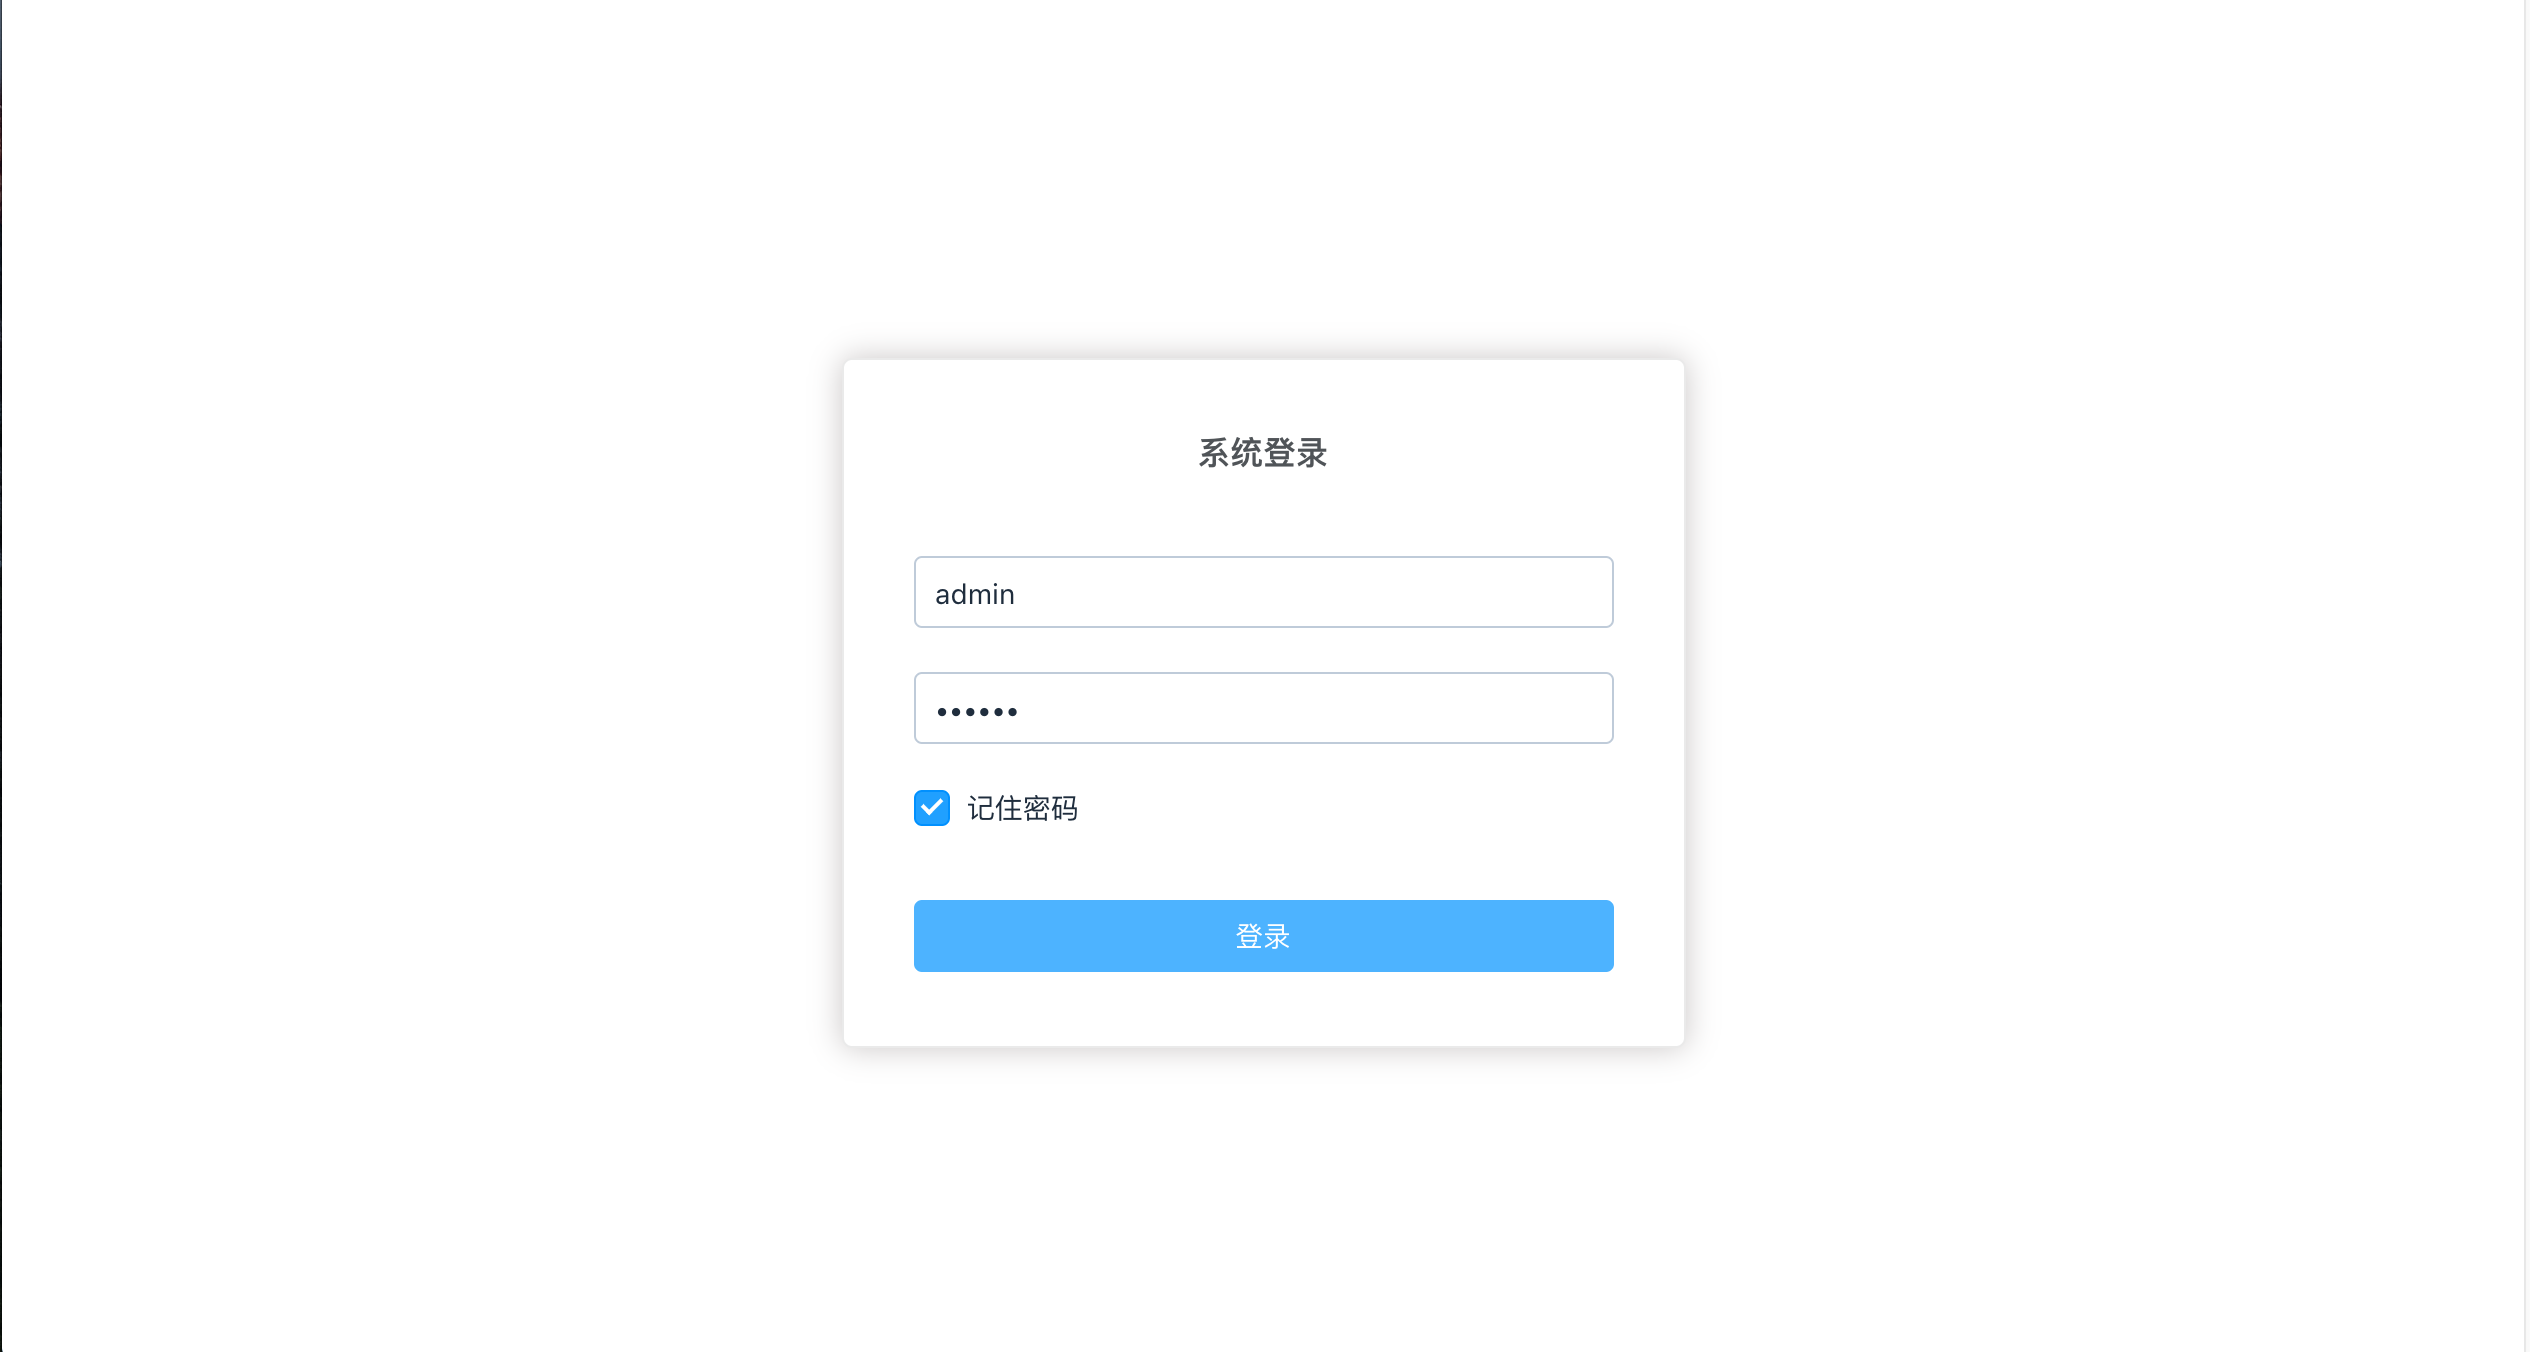
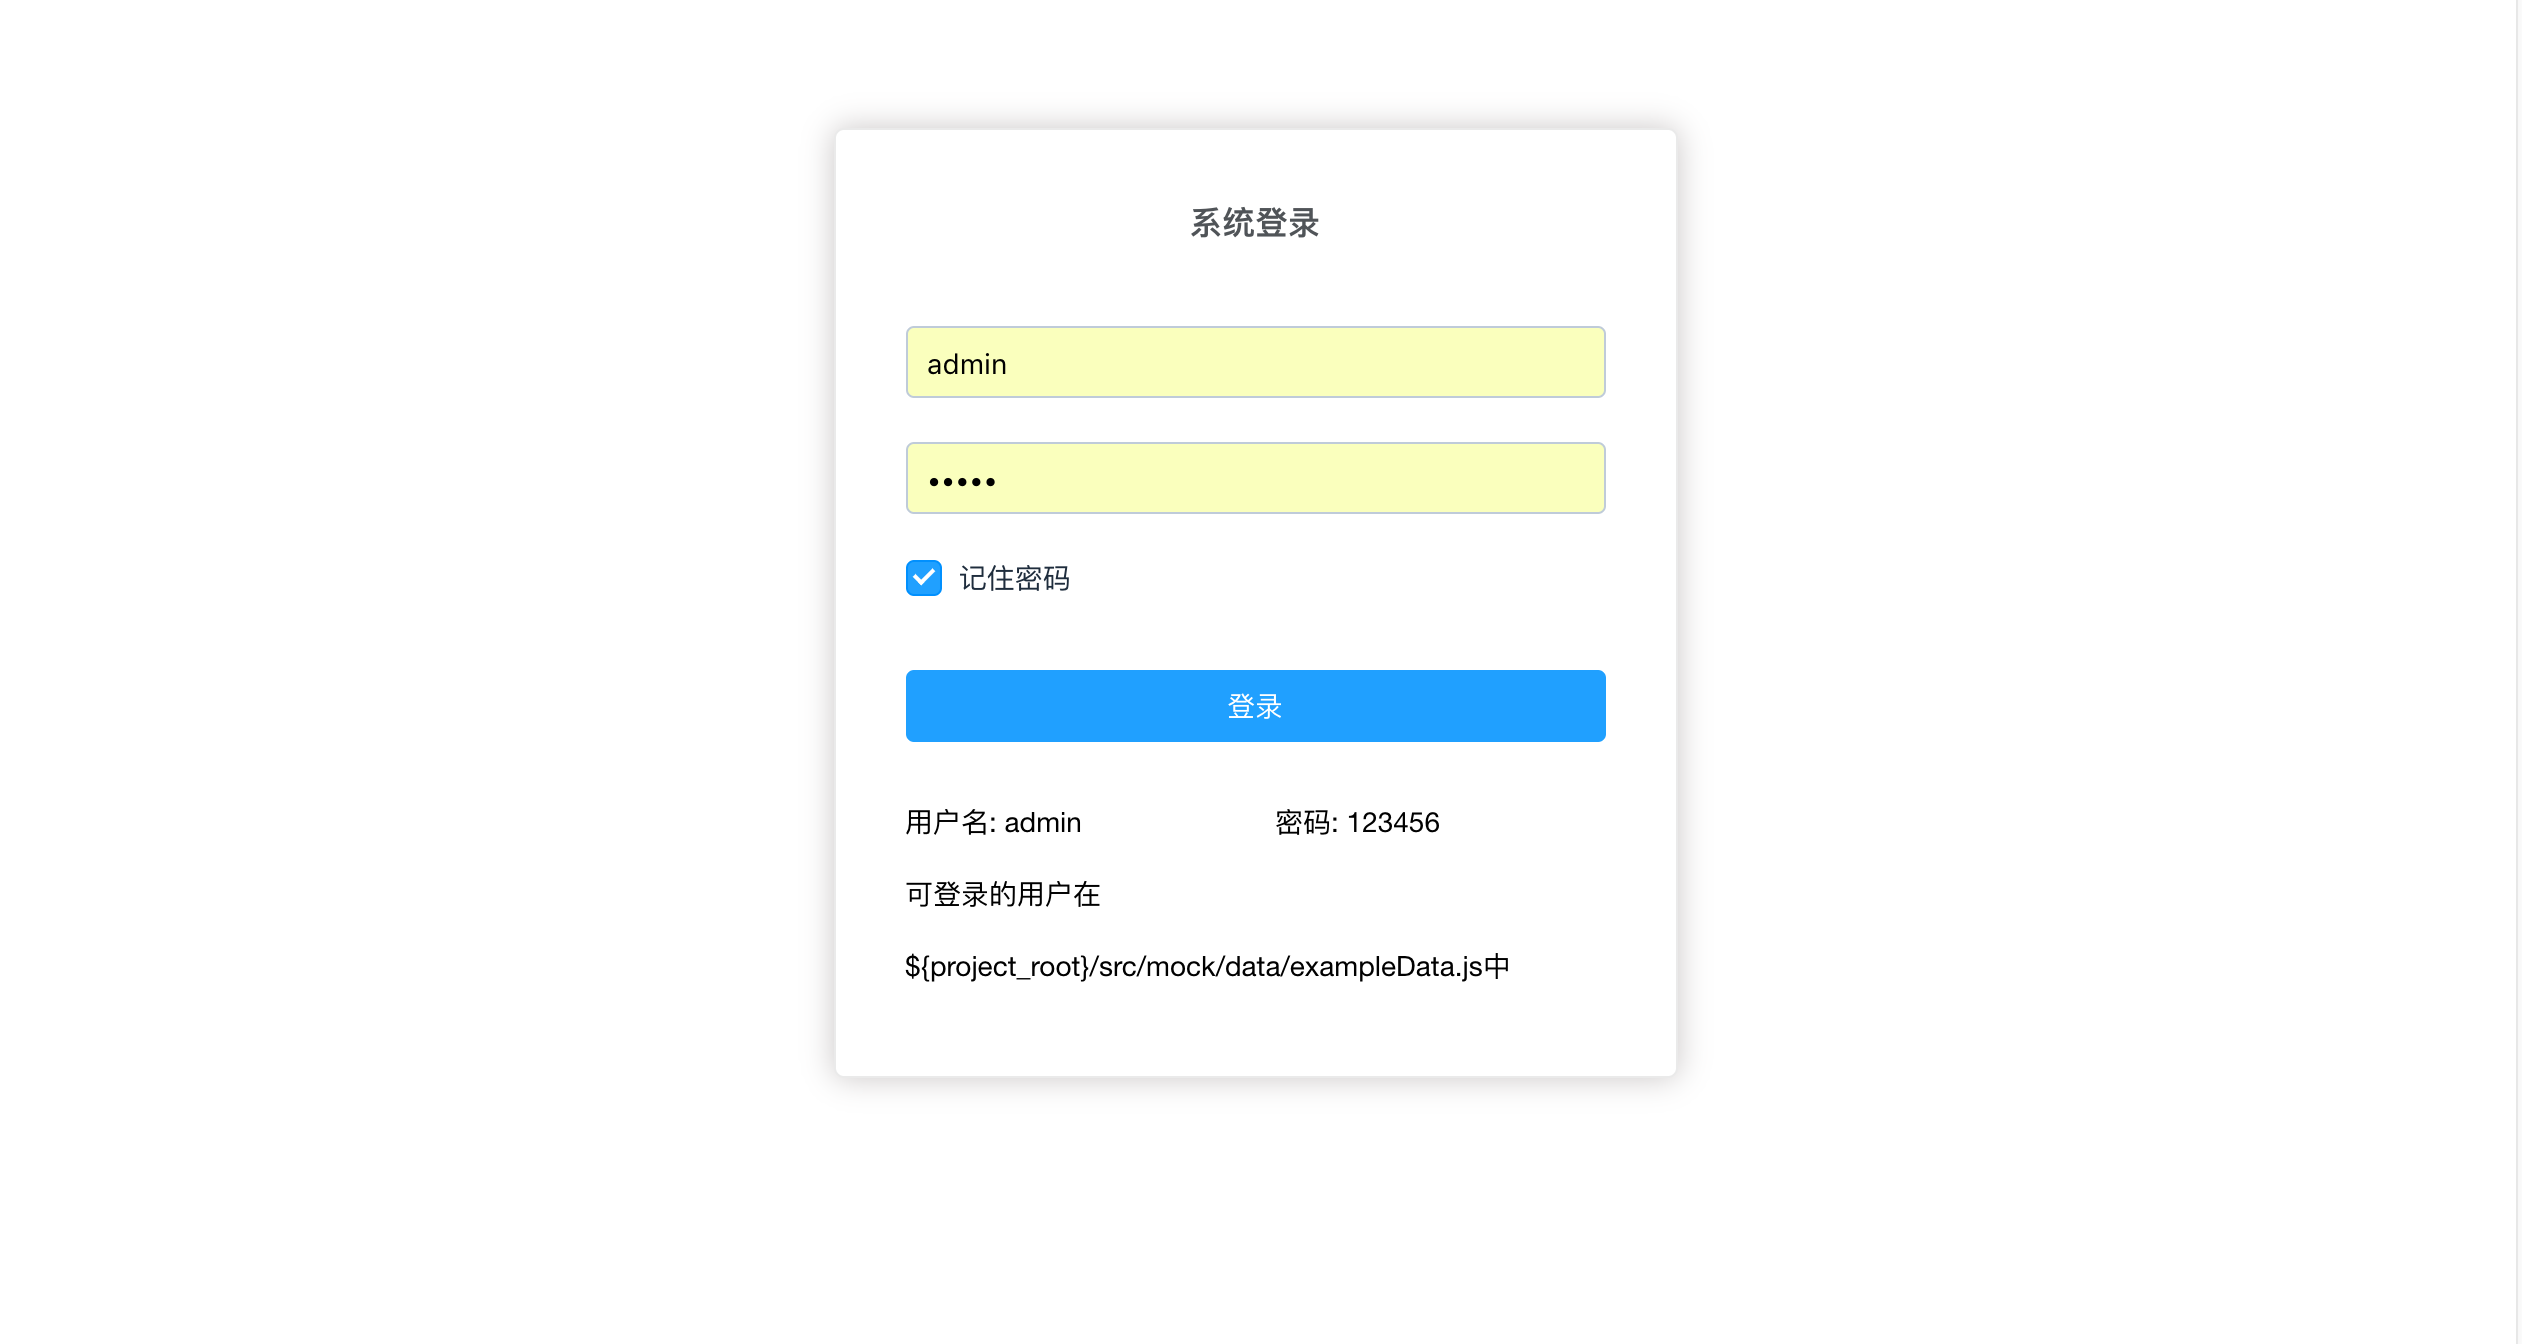
update readme.md

diff --git a/README.md b/README.md
@@ -2,9 +2,24 @@
 
 > 这并不是一个脚手架项目，是一个基础demo项目，剥离了实际业务的参考项目。新建vue后台项目，可以在本项目基础上修改。
 
+## Description
+
+  [x] 使用Mockjs模拟接口数据(待完善)
+
+  [x] axios实现网络请求(后续封装统一错误处理)
+
+  [x] vuex状态管理(目前每个请求都有请求开始、请求成功、请求失败三种状态，比较麻烦，正在想办法优化)
+
+  [] 路由权限控制
+
 ## Demo
  在线[Demo](https://jibenziliao.github.io/vue-admin-generator)
- 密码随便填
+
+ 用户名:admin
+
+ 密码:123456
+
+ 可登录的用户在${root_project}/src/mock/data/exampleData.js中
 
  ![登录页](./img/login.png)
 
